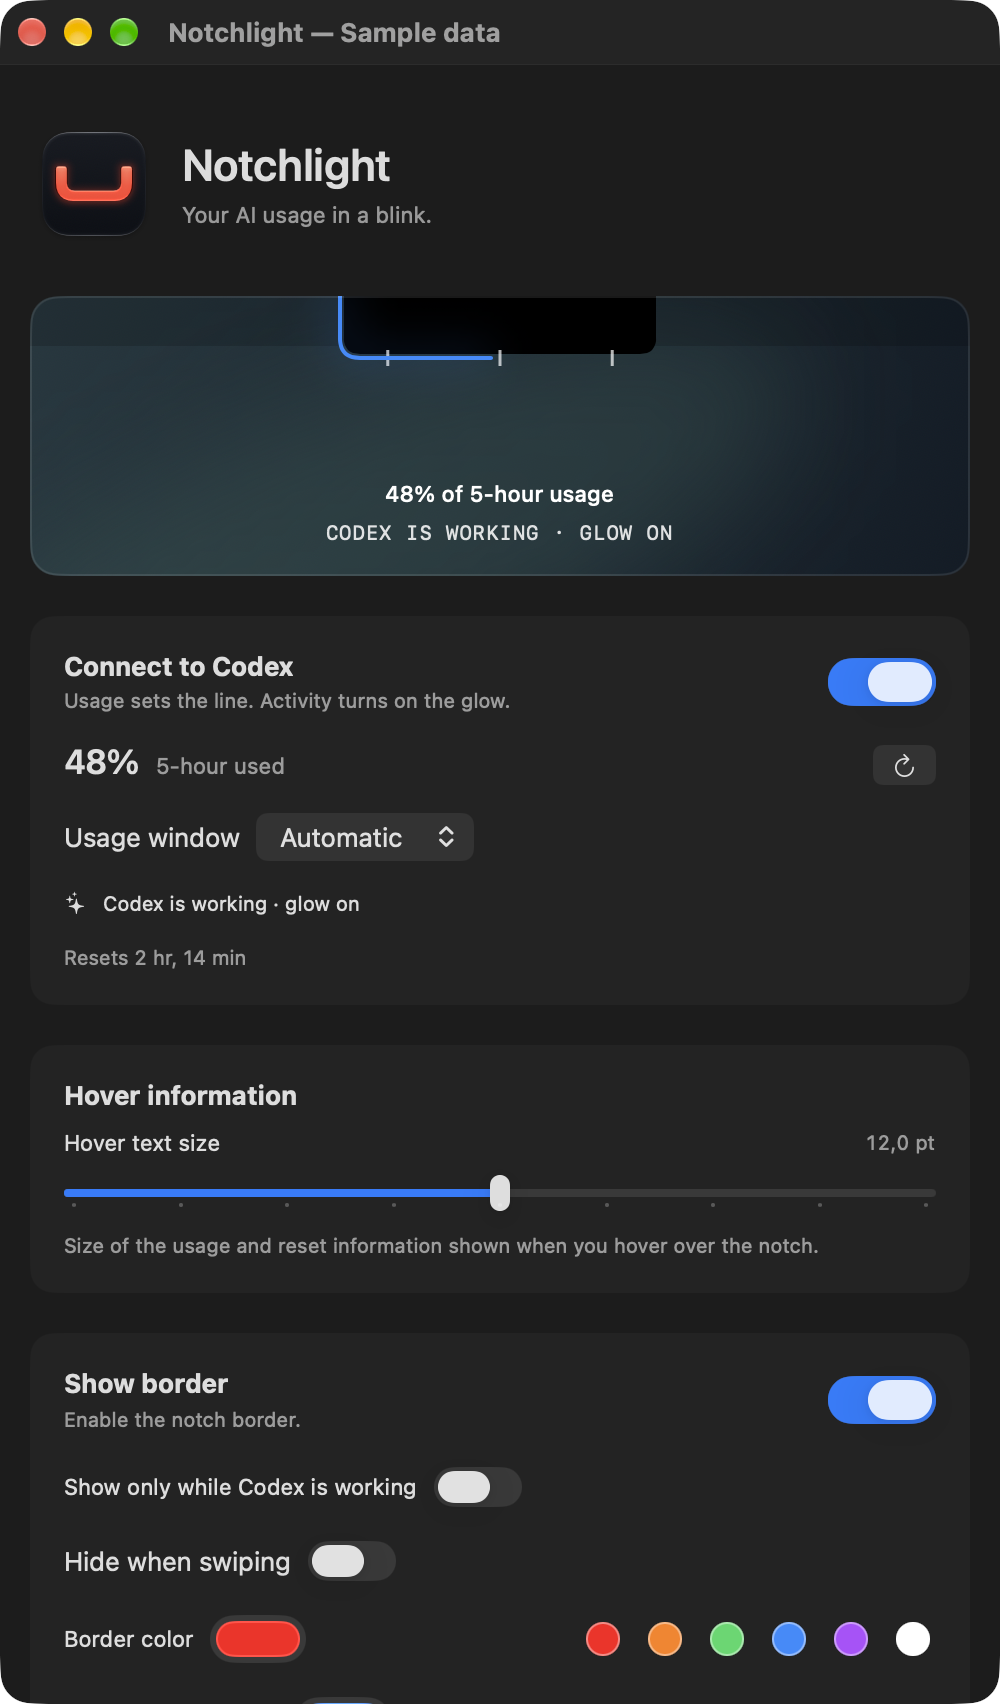
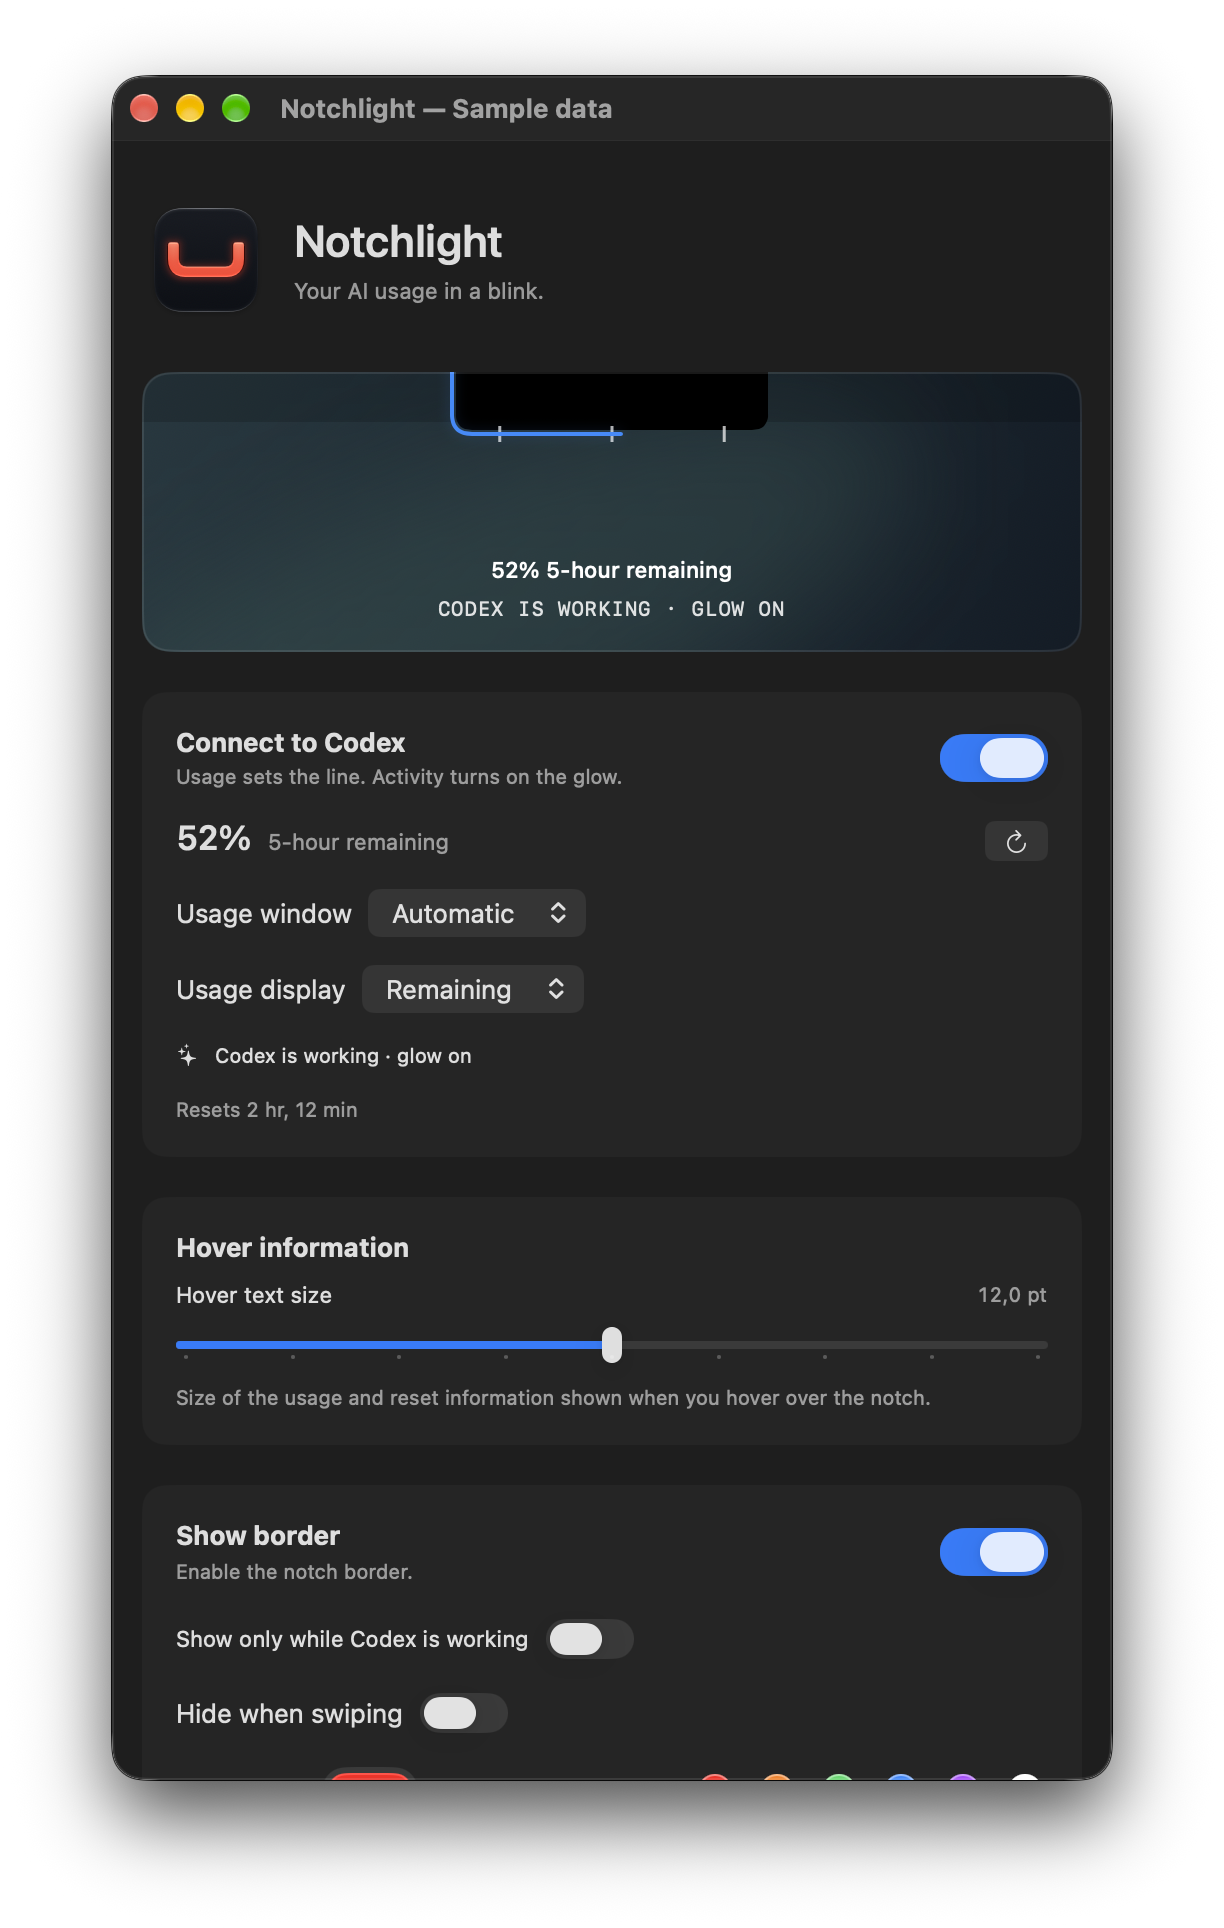
Add remaining usage display and release 1.0.2

diff --git a/Tests/NotchlightTests/CodexUsageDisplayTests.swift b/Tests/NotchlightTests/CodexUsageDisplayTests.swift
@@ -1,0 +1,90 @@
+import CodexIntegration
+import Foundation
+import Testing
+@testable import Notchlight
+
+@MainActor
+struct CodexUsageDisplayTests {
+    @Test("usage display defaults to used and persists remaining across model recreation")
+    func persistence() throws {
+        let suite = "CodexUsageDisplayTests.\(UUID().uuidString)"
+        let defaults = try #require(UserDefaults(suiteName: suite))
+        defer { defaults.removePersistentDomain(forName: suite) }
+        let model = BorderModel(defaults: defaults, startIntegration: false, startOverlay: false)
+        #expect(model.codexUsageDisplay == .used)
+        model.codexUsageDisplay = .remaining
+        let restored = BorderModel(defaults: defaults, startIntegration: false, startOverlay: false)
+        #expect(restored.codexUsageDisplay == .remaining)
+        // Reset appearance should preserve this account-display preference,
+        // just as it preserves the selected usage window.
+        restored.resetAppearance()
+        #expect(restored.codexUsageDisplay == .remaining)
+        restored.codexUsageDisplay = .used
+        #expect(defaults.string(forKey: "codex.usageDisplay") == "used")
+    }
+
+    @Test("unknown saved display values fall back to used")
+    func invalidPreference() throws {
+        let suite = "CodexUsageDisplayTests.\(UUID().uuidString)"
+        let defaults = try #require(UserDefaults(suiteName: suite))
+        defer { defaults.removePersistentDomain(forName: suite) }
+        defaults.set("unknown", forKey: "codex.usageDisplay")
+        let model = BorderModel(defaults: defaults, startIntegration: false, startOverlay: false)
+        #expect(model.codexUsageDisplay == .used)
+    }
+
+    @Test("remaining display follows the selected window without changing raw usage or manual range")
+    func selectedWindowAndManualRange() throws {
+        let suite = "CodexUsageDisplayTests.\(UUID().uuidString)"
+        let defaults = try #require(UserDefaults(suiteName: suite))
+        defer { defaults.removePersistentDomain(forName: suite) }
+        let model = BorderModel(defaults: defaults, startIntegration: false, startOverlay: false)
+        model.startPercentage = 15
+        model.endPercentage = 85
+        model.codex.recordUsage(CodexUsageSnapshot(windows: [
+            CodexUsageValue(usedPercent: 41, windowDurationMins: 300, resetsAt: nil),
+            CodexUsageValue(usedPercent: 72.5, windowDurationMins: 10_080, resetsAt: nil)
+        ], sampledAt: .now))
+        #expect(model.effectiveEndPercentage == 41)
+        model.codexUsageDisplay = .remaining
+        #expect(model.selectedUsage?.usedPercent == 41)
+        #expect(model.selectedUsagePercentage == 59)
+        #expect(model.effectiveStartPercentage == 0)
+        #expect(model.effectiveEndPercentage == 59)
+        model.codexWindow = .weekly
+        #expect(model.selectedUsagePercentage == 27.5)
+        #expect(model.effectiveEndPercentage == 27.5)
+        model.codexUsageDisplay = .used
+        #expect(model.effectiveEndPercentage == 72.5)
+        model.codexUsageDisplay = .remaining
+        model.codexLinked = false
+        #expect(model.effectiveStartPercentage == 15)
+        #expect(model.effectiveEndPercentage == 85)
+    }
+
+    @Test("missing usage never becomes a full remaining allowance")
+    func missingUsage() throws {
+        let suite = "CodexUsageDisplayTests.\(UUID().uuidString)"
+        let defaults = try #require(UserDefaults(suiteName: suite))
+        defer { defaults.removePersistentDomain(forName: suite) }
+        let model = BorderModel(defaults: defaults, startIntegration: false, startOverlay: false)
+        model.codexUsageDisplay = .remaining
+        #expect(model.selectedUsagePercentage == nil)
+        #expect(model.effectiveEndPercentage == 0)
+        model.codex.recordUsage(CodexUsageSnapshot(windows: [
+            CodexUsageValue(usedPercent: 41, windowDurationMins: 10_080, resetsAt: nil)
+        ], sampledAt: .now))
+        model.codexWindow = .fiveHour
+        #expect(model.selectedUsagePercentage == nil)
+        #expect(model.effectiveEndPercentage == 0)
+        model.codexWindow = .automatic
+        #expect(model.effectiveEndPercentage == 59)
+    }
+
+    @Test("remaining conversion handles empty, full, and fractional usage", arguments: [0.0, 100.0, 12.5])
+    func percentageBoundaries(used: Double) {
+        let usage = CodexUsageValue(usedPercent: used, windowDurationMins: 300, resetsAt: nil)
+        #expect(CodexUsageDisplay.used.percentage(for: usage) == used)
+        #expect(CodexUsageDisplay.remaining.percentage(for: usage) == 100 - used)
+    }
+}

diff --git a/Sources/Notchlight/App/BorderModel.swift b/Sources/Notchlight/App/BorderModel.swift
@@ -19,6 +19,7 @@ final class BorderModel {
         }
     }
     var codexWindow: CodexUsageWindow { didSet { saveAndApply() } }
+    var codexUsageDisplay: CodexUsageDisplay { didSet { saveAndApply() } }
     var isEnabled: Bool { didSet { saveAndApply() } }
     var hideWhenSwiping: Bool {
         didSet {
@@ -124,8 +125,9 @@ final class BorderModel {
 
     var hasTarget: Bool { detectedNotchCount > 0 }
     var selectedUsage: CodexUsageValue? { codex.usage?.value(for: codexWindow) }
+    var selectedUsagePercentage: Double? { selectedUsage.map { codexUsageDisplay.percentage(for: $0) } }
     var effectiveStartPercentage: Double { codexLinked ? 0 : startPercentage }
-    var effectiveEndPercentage: Double { codexLinked ? selectedUsage?.usedPercent ?? 0 : endPercentage }
+    var effectiveEndPercentage: Double { codexLinked ? selectedUsagePercentage ?? 0 : endPercentage }
     var effectiveGlow: Bool { codexLinked ? codex.isWorking : glow }
     var effectivePulse: Bool { codexLinked && codex.isWorking }
     var effectiveBorderColor: Color { codexLinked && codex.isWorking ? workingColor : borderColor }
@@ -153,8 +155,9 @@ final class BorderModel {
         if !hasTarget { return "No camera notch detected" }
         if codexLinked {
             guard let selectedUsage else { return codex.isRefreshing ? "Reading Codex usage…" : "Codex usage unavailable" }
-            if codex.usageError != nil { return "Last known usage: \(selectedUsage.usedPercent.formatted())%" }
-            return "\(selectedUsage.usedPercent.formatted())% used · \(codex.isWorking ? "Codex working" : "Codex linked")"
+            let summary = codexUsageDisplay.summary(for: selectedUsage)
+            if codex.usageError != nil { return "Last known usage: \(summary)" }
+            return "\(summary) · \(codex.isWorking ? "Codex working" : "Codex linked")"
         }
         if startPercentage == endPercentage { return "Line range is empty" }
         return "Your border is on"
@@ -198,10 +201,12 @@ final class BorderModel {
             "strips.color.green": 1.0,
             "strips.color.blue": 1.0,
             "codex.linked": true,
-            "codex.window": CodexUsageWindow.automatic.rawValue
+            "codex.window": CodexUsageWindow.automatic.rawValue,
+            "codex.usageDisplay": CodexUsageDisplay.used.rawValue
         ])
         codexLinked = defaults.bool(forKey: "codex.linked")
         codexWindow = CodexUsageWindow(rawValue: defaults.string(forKey: "codex.window") ?? "") ?? .automatic
+        codexUsageDisplay = CodexUsageDisplay(rawValue: defaults.string(forKey: "codex.usageDisplay") ?? "") ?? .used
         isEnabled = defaults.bool(forKey: "border.enabled")
         hideWhenSwiping = defaults.bool(forKey: "border.hideWhenSwiping")
         showOnlyWhileWorking = defaults.bool(forKey: "border.showOnlyWhileWorking")
@@ -321,6 +326,7 @@ final class BorderModel {
         defaults.set(resolvedStripColor.blueComponent, forKey: "strips.color.blue")
         defaults.set(codexLinked, forKey: "codex.linked")
         defaults.set(codexWindow.rawValue, forKey: "codex.window")
+        defaults.set(codexUsageDisplay.rawValue, forKey: "codex.usageDisplay")
         apply()
     }
 
@@ -350,7 +356,8 @@ final class BorderModel {
             strips: stripStyle,
             hoverContent: NotchHoverPresentation.make(
                 isLinked: codexLinked, usage: selectedUsage,
-                isRefreshing: codex.isRefreshing, isStale: codex.usageError != nil
+                isRefreshing: codex.isRefreshing, isStale: codex.usageError != nil,
+                display: codexUsageDisplay
             ),
             hoverStyle: NotchHoverStyle(textSize: hoverTextSize)
         )

diff --git a/Tests/NotchlightTests/NotchHoverPresentationTests.swift b/Tests/NotchlightTests/NotchHoverPresentationTests.swift
@@ -6,6 +6,31 @@ import Testing
 @testable import Notchlight
 
 struct NotchHoverPresentationTests {
+    @Test("remaining hover shows converted usage and preserves reset and stale state", arguments: [false, true])
+    func remainingUsage(isStale: Bool) {
+        let usage = CodexUsageValue(usedPercent: 43, windowDurationMins: 300,
+                                   resetsAt: Date(timeIntervalSince1970: 1_758_320_280))
+        let content = NotchHoverPresentation.make(isLinked: true, usage: usage,
+                                                isRefreshing: false, isStale: isStale, display: .remaining)
+        #expect(content.usageText == "57% remaining")
+        #expect(content.usageCaption == "5-hour usage")
+        #expect(content.resetCaption == (isStale ? "Last known reset" : "Resets"))
+        #expect(content.resetText != "Unavailable")
+    }
+
+    @Test("remaining mode preserves unavailable, loading, and disconnected states")
+    func remainingUnavailableStates() {
+        let missing = NotchHoverPresentation.make(isLinked: true, usage: nil,
+                                                isRefreshing: false, display: .remaining)
+        #expect(missing.usageText == "Usage unavailable")
+        let loading = NotchHoverPresentation.make(isLinked: true, usage: nil,
+                                                isRefreshing: true, display: .remaining)
+        #expect(loading.usageText == "Reading usage…")
+        let disconnected = NotchHoverPresentation.make(isLinked: false, usage: nil,
+                                                     isRefreshing: false, display: .remaining)
+        #expect(disconnected.usageText == "Not connected")
+    }
+
     @Test("linked usage shows used percentage and exact reset date")
     func linkedUsage() {
         let content = NotchHoverPresentation.make(

diff --git a/Sources/Notchlight/Views/CodexConnectionView.swift b/Sources/Notchlight/Views/CodexConnectionView.swift
@@ -23,9 +23,9 @@ struct CodexConnectionView: View {
                 if model.codexLinked {
                     HStack(alignment: .firstTextBaseline) {
                         if let usage = model.selectedUsage {
-                            Text("\(usage.usedPercent.formatted(.number.precision(.fractionLength(0...1))))%")
+                            Text(model.codexUsageDisplay.formattedPercentage(for: usage))
                                 .font(.title2.weight(.semibold).monospacedDigit())
-                            Text("\(usage.title.lowercased()) used")
+                            Text("\(usage.title.lowercased()) \(model.codexUsageDisplay.description)")
                                 .font(.subheadline)
                                 .foregroundStyle(.secondary)
                         } else {
@@ -47,6 +47,14 @@ struct CodexConnectionView: View {
                             Text(window.title).tag(window)
                         }
                     }
+
+                    Picker("Usage display", selection: $model.codexUsageDisplay) {
+                        ForEach(CodexUsageDisplay.allCases) { display in
+                            Text(display.title).tag(display)
+                        }
+                    }
+                    .accessibilityIdentifier("codexUsageDisplayPicker")
+                    .help("Show the percentage used or remaining in the border and usage details.")
 
                     HStack {
                         Label(

diff --git a/Sources/Notchlight/Views/BorderPreview.swift b/Sources/Notchlight/Views/BorderPreview.swift
@@ -10,7 +10,7 @@ struct BorderPreview: View {
     private var previewTitle: String {
         if model.codexLinked {
             guard let usage = model.selectedUsage else { return "Waiting for Codex usage" }
-            return "\(usage.usedPercent.formatted())% of \(usage.title.lowercased()) usage"
+            return "\(model.codexUsageDisplay.formattedPercentage(for: usage)) \(usage.title.lowercased()) \(model.codexUsageDisplay.description)"
         }
         return "Meet your Mac’s new outline."
     }
@@ -86,7 +86,7 @@ struct BorderPreview: View {
                 .strokeBorder(.white.opacity(contrast == .increased ? 0.6 : 0.10), lineWidth: 1)
         }
         .accessibilityElement(children: .ignore)
-        .accessibilityLabel("Appearance preview: camera notch, from \(model.effectiveStartPercentage.formatted()) to \(model.effectiveEndPercentage.formatted()) percent, \(model.lineWidth.formatted()) point border\(model.effectiveIsEnabled ? "" : ", hidden")")
+        .accessibilityLabel("Appearance preview: camera notch, from \(model.effectiveStartPercentage.formatted()) to \(model.effectiveEndPercentage.formatted()) percent, \(model.lineWidth.formatted()) point border\(model.effectiveIsEnabled ? "" : ", hidden")\(model.codexLinked ? ", " + previewTitle : "")")
         .onAppear {
             model.diagnostics.updateContext(["preview_present": .bool(true), "preview_pulse_active": .bool(shouldPulse)])
         }

diff --git a/Sources/Notchlight/App/CodexUsageDisplay.swift b/Sources/Notchlight/App/CodexUsageDisplay.swift
@@ -1,0 +1,33 @@
+import CodexIntegration
+import Foundation
+
+enum CodexUsageDisplay: String, CaseIterable, Identifiable {
+    case used
+    case remaining
+
+    var id: Self { self }
+
+    var title: String {
+        switch self {
+        case .used: "Used"
+        case .remaining: "Remaining"
+        }
+    }
+
+    var description: String { title.lowercased() }
+
+    func percentage(for usage: CodexUsageValue) -> Double {
+        switch self {
+        case .used: usage.usedPercent
+        case .remaining: 100 - usage.usedPercent
+        }
+    }
+
+    func formattedPercentage(for usage: CodexUsageValue) -> String {
+        percentage(for: usage).formatted(.number.precision(.fractionLength(0...1))) + "%"
+    }
+
+    func summary(for usage: CodexUsageValue) -> String {
+        "\(formattedPercentage(for: usage)) \(description)"
+    }
+}

diff --git a/Sources/Notchlight/App/NotchHoverPresentation.swift b/Sources/Notchlight/App/NotchHoverPresentation.swift
@@ -7,7 +7,8 @@ enum NotchHoverPresentation {
         isLinked: Bool,
         usage: CodexUsageValue?,
         isRefreshing: Bool,
-        isStale: Bool = false
+        isStale: Bool = false,
+        display: CodexUsageDisplay = .used
     ) -> NotchHoverContent {
         guard isLinked else {
             return NotchHoverContent(
@@ -27,7 +28,7 @@ enum NotchHoverPresentation {
             )
         }
 
-        let usageText = "\(usage.usedPercent.formatted(.number.precision(.fractionLength(0...1))))% used"
+        let usageText = display.summary(for: usage)
         let usageCaption = "\(usage.title) usage"
         if isStale {
             let resetText = usage.resetsAt.map { resetDateText($0) } ?? "Unavailable"

diff --git a/docs/releases/1.0.2.md b/docs/releases/1.0.2.md
@@ -1,0 +1,52 @@
+# Notchlight 1.0.2
+
+Choose whether Notchlight shows Codex usage **used** or **remaining**.
+
+## New
+
+- In Settings, enable **Connect to Codex**, then choose **Usage display → Remaining**.
+- The border length, preview, settings percentage, hover details, and notch menu
+  follow your choice for the selected five-hour or weekly window.
+- The choice persists between launches. **Used** remains the default, and
+  Reset appearance preserves your usage-display preference.
+- Missing data stays unavailable; refresh failures retain the last known value.
+  Manual border ranges are preserved when disconnecting from Codex.
+
+## Download
+
+Download `Notchlight-1.0.2-macOS-arm64.zip`, unzip it, and move `Notchlight.app`
+to Applications. Verify the archive with the accompanying `SHA256SUMS.txt`.
+
+This build is **Apple Silicon only**, **ad-hoc signed**, and **not notarized**.
+If macOS blocks the first launch and you trust the download, follow
+[Apple's Open Anyway instructions](https://support.apple.com/en-us/102445).
+
+Requires macOS 14 or later. Built and tested on macOS 27 with Xcode 27;
+macOS 14/26 and Intel hardware have not been runtime-tested.
+
+## Verification
+
+All **125 automated tests passed**, including display persistence, window
+selection, empty/full/fractional usage, missing data, stale hover details,
+and preservation of manual border settings. Release packaging, the extracted
+app's signature, bundled legal documents, deployment target, and archive
+checksum were verified.
+
+The native Settings fixture was checked in light and dark appearances, at
+500×480 minimum content size, and while scrolling. The picker, immediate
+percentage/preview updates, and keyboard menu selection passed. Screenshots
+use sample data. VoiceOver speech and physical-notch hover were not re-tested.
+
+## Notes
+
+Usage normally refreshes once per minute, and local activity approximately
+every two seconds. These are indicators; use Codex itself as the authority
+for account limits and task state. Codex features require your own installation
+and sign-in. Local activity and optional swipe monitoring depend on implementation
+details that may change with future Codex or macOS releases.
+
+Notchlight remains available under your choice of PolyForm Noncommercial 1.0.0
+or PolyForm Internal Use 1.0.0. See the
+[license](https://github.com/Flexxkii/notchlight/blob/v1.0.2/LICENSE),
+[terms](https://github.com/Flexxkii/notchlight/blob/v1.0.2/TERMS.md), and
+[privacy notice](https://github.com/Flexxkii/notchlight/blob/v1.0.2/PRIVACY.md).

diff --git a/README.md b/README.md
@@ -16,7 +16,8 @@ or simply give your notch a border in a color you like.
 ## What it does
 
 - **Usage around the notch.** Connect your existing Codex installation to show
-  the percentage of your five-hour or weekly allowance already used.
+  the percentage of your five-hour or weekly allowance used or remaining.
+  Choose **Usage display → Remaining** in Settings to show what's left.
 - **Activity you can see.** A configurable working color and gentle glow mark
   local Codex activity. Optionally hide the border when idle, with a timeout.
 - **Details on hover.** Hover for the usage percentage and reset date; click the
@@ -35,7 +36,7 @@ CLI and existing sign-in; it does not include a subscription or extra usage.
 ## Download and install
 
 1. Open [Releases](https://github.com/Flexxkii/notchlight/releases).
-2. Download `Notchlight-1.0.1-macOS-arm64.zip`, then unzip it.
+2. Download `Notchlight-1.0.2-macOS-arm64.zip`, then unzip it.
 3. Move `Notchlight.app` to Applications and open it.
 4. Adjust the border, or enable **Connect to Codex** if Codex is installed and
    signed in on your Mac.
@@ -59,7 +60,7 @@ the repository remains private.
 | --- | --- |
 | Operating system | macOS 14 or later |
 | Visible notch border | A supported notched MacBook display |
-| Published 1.0.1 build | Apple Silicon (`arm64`) |
+| Published 1.0.2 build | Apple Silicon (`arm64`) |
 | Optional Codex features | Installed Codex CLI/desktop app and an existing compatible sign-in |
 | Building from source | Full Xcode 26+ with Swift 6.2+ and Icon Composer asset compilation |
 

diff --git a/docs/usage.md b/docs/usage.md
@@ -56,7 +56,9 @@ The implementation notes reference Apple’s [`NSScreen.auxiliaryTopLeftArea`](h
 
 ## Codex connection
 
-The **Connect to Codex** switch lets account usage drive the border from 0% to the percentage already used. **Automatic** chooses the five-hour window when reported, otherwise the weekly window. You can also select a window explicitly. Missing limits are shown as unavailable, never as a measured 0%.
+The **Connect to Codex** switch lets account usage drive the border. Under **Usage display**, choose **Used** (the default) or **Remaining**. Remaining shows 100% minus the reported usage: for example, 41% used becomes 59% remaining. The choice is saved and updates the border length, preview, settings percentage, hover details, and notch menu. Resetting appearance preserves this choice.
+
+**Usage window → Automatic** chooses the five-hour window when reported, otherwise the weekly window. You can also select a window explicitly. Missing limits are shown as unavailable, never as a measured 0% used or 100% remaining.
 
 The app reads usage once per minute through the installed Codex CLI’s [local app-server account API](https://learn.chatgpt.com/docs/app-server). It uses your existing Codex sign-in, makes no model requests, and never reads or stores authentication tokens. Refresh failures retain the last known value with a warning in settings. Quit the app or disconnect to stop its monitoring.
 
